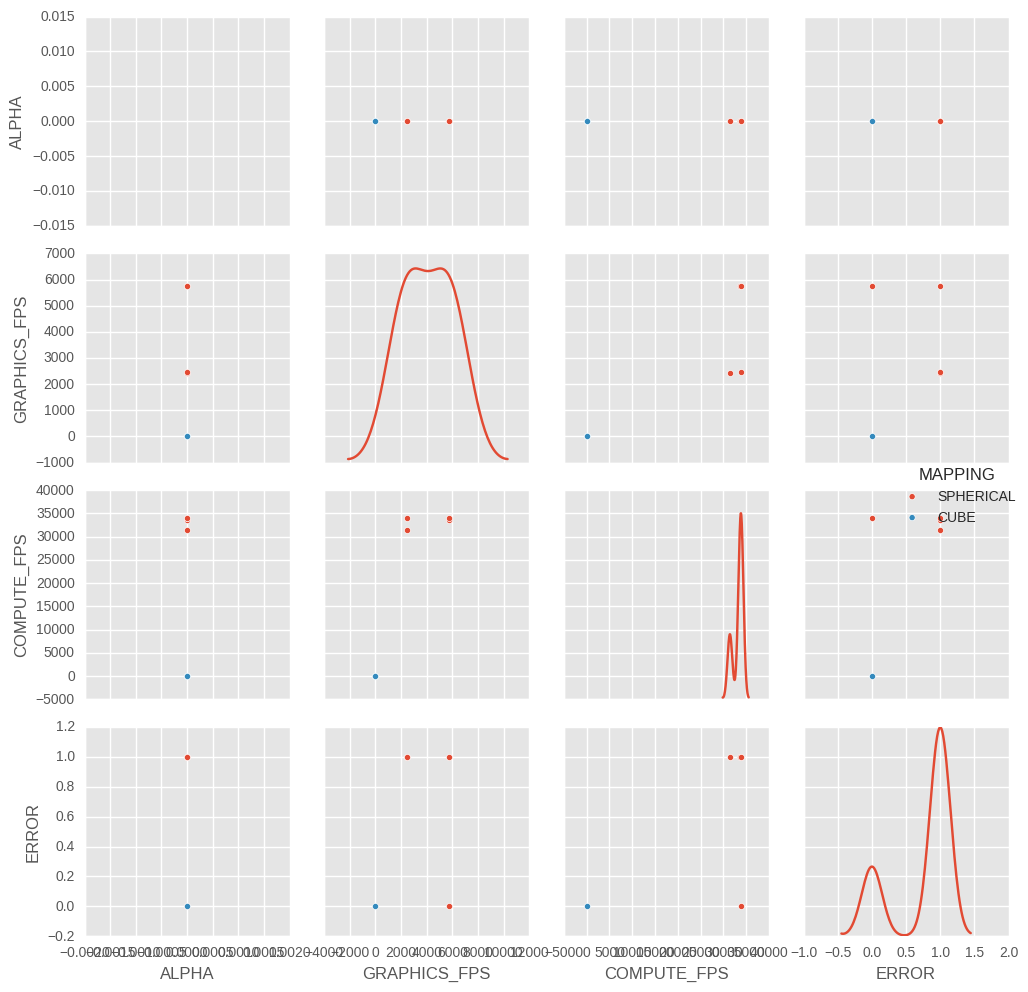
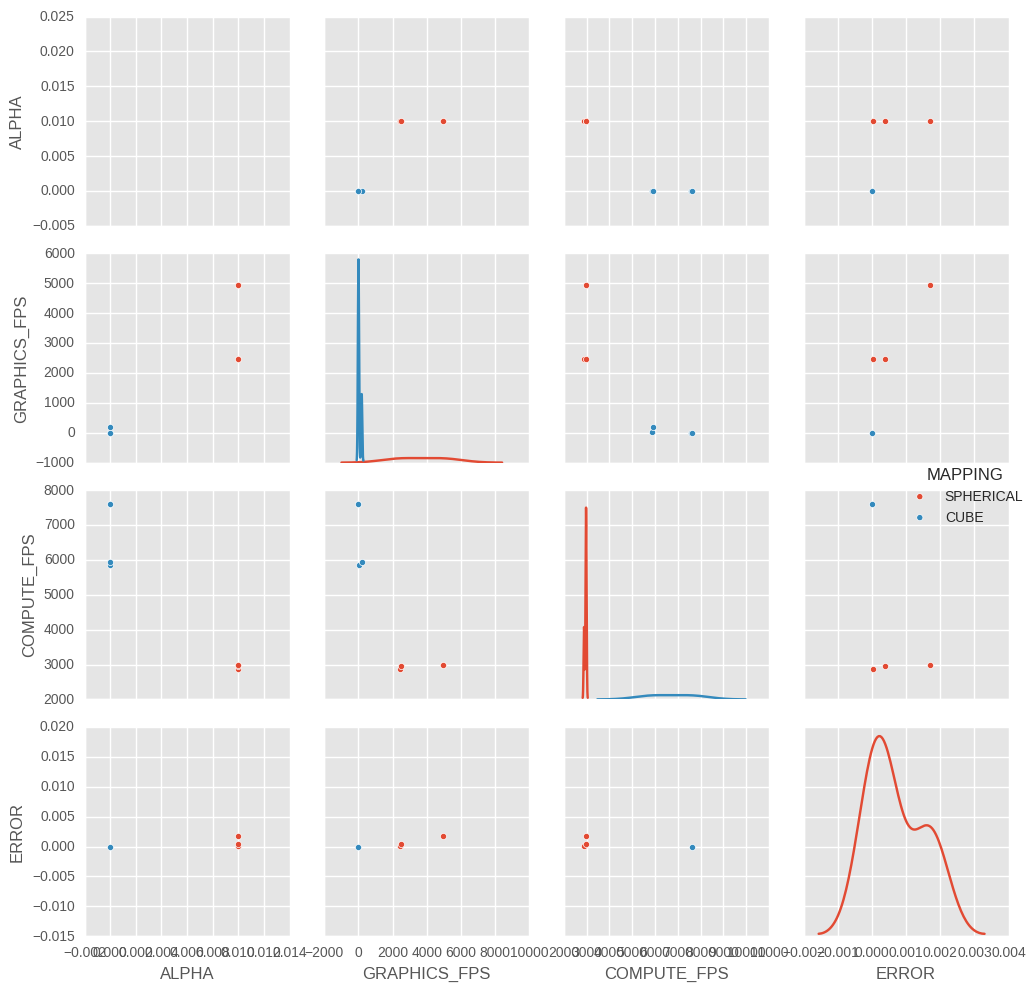
Changed triangle test case

diff --git a/scripts/util/spherical_area.py b/scripts/util/spherical_area.py
@@ -6,7 +6,7 @@ angle = lambda p,q: np.arccos(np.dot(p,q)/np.linalg.norm(p)/np.linalg.norm(q))
 
 p1 = np.asarray([1,1,0])
 p2 = np.asarray([-1,1,0])
-p3 = np.asarray([0,0.01,0.001])
+p3 = np.asarray([0,0.001,1])
 
 a = angle(p1,p2)
 b = angle(p2,p3)
